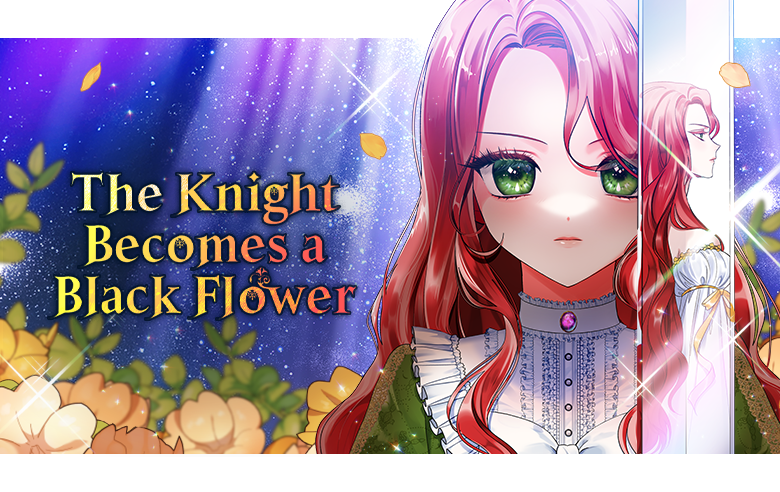
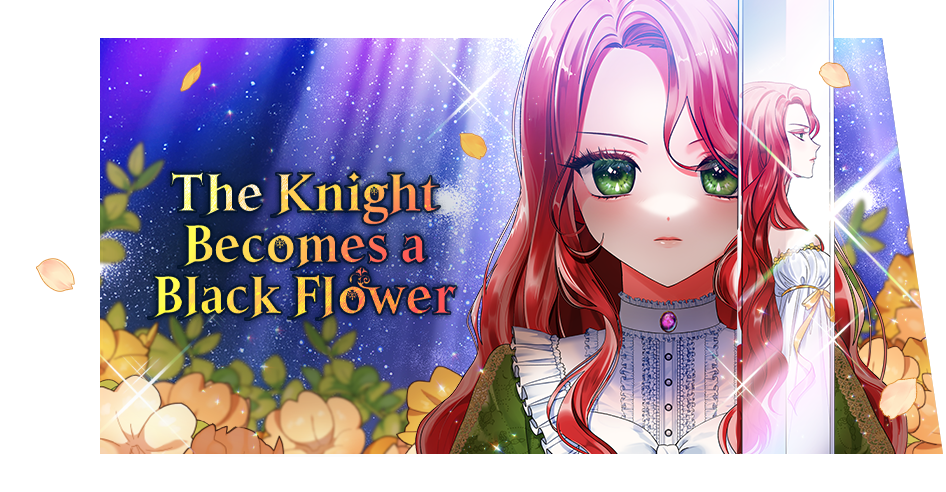
front index

diff --git a/index.html b/index.html
@@ -4,7 +4,9 @@
     <meta charset="UTF-8">
     <meta name="viewport" content="width=device-width, initial-scale=1.0">
     <title>Document</title>
-    <link rel="stylesheet" href="style.css">
+    <link rel="stylesheet" href="nav.css">
+    <link rel="stylesheet" href="slider.css">
+    <link rel="stylesheet" href="carousel.css">
     <link href="https://cdn.jsdelivr.net/npm/bootstrap@5.3.3/dist/css/bootstrap.min.css" rel="stylesheet" integrity="sha384-QWTKZyjpPEjISv5WaRU9OFeRpok6YctnYmDr5pNlyT2bRjXh0JMhjY6hW+ALEwIH" crossorigin="anonymous">
 </head>
 <body>
@@ -213,14 +215,14 @@
         <!-- End Nav -->
 
         <!-- Content -->
-        <div class="myapp-content container-fluid p-0 m-0">
+        <div class="myapp-content container-fluid m-0">
             <div class="row">
                 <div class="myapp-addvertise col-xl-2">
                     <!-- Quảng cáo -->
                 </div>
                 <div class="myapp-content-body col-12 col-xl-8">
                     <!-- Slider -->
-                    <div class="slider-container">
+                    <div class="slider-container rounded-bottom-5">
                         <div class="slides">
                             <div class="slide">
                                 <div class="slide-bg"></div>
@@ -305,6 +307,132 @@
 
                     </script>
                     <!-- End Slider -->
+                    
+                    <!-- Carousel 6 truyện một lúc -->
+                    <div class="custom-carousel-container container-fluid m-0 p-0 mt-4">
+                        <div class="custom-carousel">
+                            <button class="custom-carousel-prev">❮</button>
+                            <div class="custom-carousel-wrapper">
+                                <div class="custom-carousel-track">
+                                    <div class="custom-carousel-card rounded-3">Card 1</div>
+                                    <div class="custom-carousel-card rounded-3">Card 2</div>
+                                    <div class="custom-carousel-card rounded-3">Card 3</div>
+                                    <div class="custom-carousel-card rounded-3">Card 4</div>
+                                    <div class="custom-carousel-card rounded-3">Card 5</div>
+                                    <div class="custom-carousel-card rounded-3">Card 6</div>
+                                    <div class="custom-carousel-card rounded-3">Card 7</div>
+                                    <div class="custom-carousel-card rounded-3">Card 8</div>
+                                    <div class="custom-carousel-card rounded-3">Card 9</div>
+                                    <div class="custom-carousel-card rounded-3">Card 10</div>
+                                    <div class="custom-carousel-card rounded-3">Card 11</div>
+                                    <div class="custom-carousel-card rounded-3">Card 12</div>
+                                    <div class="custom-carousel-card rounded-3">Card 13</div>
+                                </div>
+                            </div>
+                            <button class="custom-carousel-next">❯</button>
+                        </div>
+                        <script>
+                            const customTrack = document.querySelector(".custom-carousel-track");
+                            const customPrev = document.querySelector(".custom-carousel-prev");
+                            const customNext = document.querySelector(".custom-carousel-next");
+                            const customWrapper = document.querySelector(".custom-carousel-wrapper");
+                            let customCards = [...document.querySelectorAll(".custom-carousel-card")];
+                    
+                            let customIndex = 0;
+                            let isDragging = false;
+                            let startX = 0, currentX = 0, moveX = 0, lastTransform = 0;
+                    
+                            // Sao chép các phần tử đầu vào cuối để tạo hiệu ứng vòng lặp
+                            customCards.forEach(card => {
+                                const clone = card.cloneNode(true);
+                                customTrack.appendChild(clone);
+                            });
+                            customCards = [...document.querySelectorAll(".custom-carousel-card")];
+                    
+                            function getCustomCardWidth() {
+                                return customCards[0].offsetWidth + 24; // 190px + 24px (gap)
+                            }
+                    
+                            function updateCustomCarousel() {
+                                const cardWidth = getCustomCardWidth();
+                                customTrack.style.transition = "transform 0.5s ease-in-out";
+                                customTrack.style.transform = `translateX(-${customIndex * cardWidth}px)`;
+                            }
+                    
+                            function checkCustomLoop() {
+                                const cardWidth = getCustomCardWidth();
+                                const totalCards = customCards.length / 2; // Vì đã sao chép phần tử
+                                if (customIndex >= totalCards) {
+                                    customTrack.style.transition = "none";
+                                    customIndex = 0;
+                                    customTrack.style.transform = `translateX(-${customIndex * cardWidth}px)`;
+                                } else if (customIndex < 0) {
+                                    customTrack.style.transition = "none";
+                                    customIndex = totalCards - 1;
+                                    customTrack.style.transform = `translateX(-${customIndex * cardWidth}px)`;
+                                }
+                            }
+                    
+                            function startCustomDragging(e) {
+                                isDragging = true;
+                                startX = e.pageX || e.touches[0].pageX;
+                                lastTransform = parseFloat(getComputedStyle(customTrack).transform.split(",")[4]) || 0;
+                                customTrack.style.transition = "none";
+                            }
+                    
+                            function customDragging(e) {
+                                if (!isDragging) return;
+                                currentX = e.pageX || e.touches[0].pageX;
+                                moveX = currentX - startX;
+                                customTrack.style.transform = `translateX(${lastTransform + moveX}px)`;
+                            }
+                    
+                            function stopCustomDragging() {
+                                if (!isDragging) return;
+                                isDragging = false;
+                                customTrack.style.transition = "transform 0.5s ease-in-out";
+                    
+                                const cardWidth = getCustomCardWidth();
+                                let newIndex = Math.round(Math.abs(lastTransform + moveX) / cardWidth);
+                                customIndex = newIndex;
+                    
+                                updateCustomCarousel();
+                                checkCustomLoop();
+                            }
+                    
+                            function nextCustomSlide() {
+                                customIndex++;
+                                updateCustomCarousel();
+                                setTimeout(checkCustomLoop, 500);
+                            }
+                    
+                            function prevCustomSlide() {
+                                customIndex--;
+                                updateCustomCarousel();
+                                setTimeout(checkCustomLoop, 500);
+                            }
+                    
+                            // Gán sự kiện
+                            customNext.addEventListener("click", nextCustomSlide);
+                            customPrev.addEventListener("click", prevCustomSlide);
+                    
+                            customWrapper.addEventListener("mousedown", startCustomDragging);
+                            customWrapper.addEventListener("mousemove", customDragging);
+                            customWrapper.addEventListener("mouseup", stopCustomDragging);
+                            customWrapper.addEventListener("mouseleave", stopCustomDragging);
+                            customWrapper.addEventListener("touchstart", startCustomDragging);
+                            customWrapper.addEventListener("touchmove", customDragging);
+                            customWrapper.addEventListener("touchend", stopCustomDragging);
+                    
+                            // Cập nhật khi resize
+                            window.addEventListener("resize", updateCustomCarousel);
+                    
+                            // Khởi động
+                            updateCustomCarousel();
+                        </script>
+                    </div>
+                    
+                    <!-- End Carousel -->
                 </div>
                 <div class="myapp-addvertise col-xl-2">
                     <!-- Quảng cáo -->
@@ -312,7 +440,9 @@
             </div>
             
         </div>
-        <footer class="container-fluid" style="border: 1px solid red;">Footer</footer>
+        <footer class="container-fluid" style="border: 1px solid red;">
+
+        </footer>
     </div>
     <script src="https://cdn.jsdelivr.net/npm/bootstrap@5.3.3/dist/js/bootstrap.bundle.min.js" integrity="sha384-YvpcrYf0tY3lHB60NNkmXc5s9fDVZLESaAA55NDzOxhy9GkcIdslK1eN7N6jIeHz" crossorigin="anonymous"></script>
 </body>

diff --git a/slider.css b/slider.css
@@ -1,45 +1,3 @@
-.dropdown:hover .dropdown-menu {
-    display: block;
-}
-
-.dropdown-toggle {
-    cursor: pointer !important;
-}
-
-.myapp-nav-icon{
-    max-width: 20px;
-    max-height: 20px;
-}
-
-.myapp-search .input-group input,
-.myapp-search .input-group button {
-    background-color: #f6f6f6;
-}
-
-input.form-control {
-    text-indent: 10px; /* Đẩy chữ vào phải 10px */
-}
-
-.myapp-user .dropdown{
-    background-color: #c50047;
-    padding: 0.5rem;
-    border-radius: 0.5rem;
-    color: white;
-}
-
-.myapp-user span{
-    font-weight: 500;
-}
-
-.myapp-user .dropdown-toggle::after {
-    display: none !important;
-}
-
-.myapp-logo img{
-    max-width: 100%;
-    max-height: 75px;
-}
-
 /* Slider */
 .slider-container {
     position: relative;
@@ -65,6 +23,13 @@ input.form-control {
 }
 
 /* Ảnh chính */
+.slide a {
+    display: flex;
+    align-items: center;
+    justify-content: center;
+    width: 100%;
+    height: 100%;
+}
 
 .slide a img {
     position: relative;

diff --git a/carousel.css b/carousel.css
@@ -1,0 +1,46 @@
+.custom-carousel {
+    display: flex;
+    align-items: center;
+    position: relative;
+    width: 100%;
+    margin: auto;
+}
+
+.custom-carousel-wrapper {
+    overflow: hidden;
+    width: 100%;
+    flex: 1;
+}
+
+.custom-carousel-track {
+    display: flex;
+    gap: 1.5rem;
+    transition: transform 0.5s ease-in-out;
+}
+
+.custom-carousel-card {
+    width: 190px;
+    height: 200px;
+    background: lightgray;
+    display: flex;
+    justify-content: center;
+    align-items: center;
+    flex-shrink: 0;
+}
+
+.custom-carousel-prev, .custom-carousel-next {
+    background: rgba(199, 198, 198, 0.5);
+    color: white;
+    border: none;
+    cursor: pointer;
+    padding: 10px;
+    font-size: 20px;
+    position: absolute;
+    top: 50%;
+    transform: translateY(-50%);
+    z-index: 10;
+    border-radius: 20%;
+}
+
+.custom-carousel-prev { left: 5px; }
+.custom-carousel-next { right: 5px; }

diff --git a/nav.css b/nav.css
@@ -1,0 +1,42 @@
+/* nav */
+.dropdown:hover .dropdown-menu {
+    display: block;
+}
+
+.dropdown-toggle {
+    cursor: pointer !important;
+}
+
+.myapp-nav-icon{
+    max-width: 20px;
+    max-height: 20px;
+}
+
+.myapp-search .input-group input,
+.myapp-search .input-group button {
+    background-color: #f6f6f6;
+}
+
+input.form-control {
+    text-indent: 10px; /* Đẩy chữ vào phải 10px */
+}
+
+.myapp-user .dropdown{
+    background-color: #c50047;
+    padding: 0.5rem;
+    border-radius: 0.5rem;
+    color: white;
+}
+
+.myapp-user span{
+    font-weight: 500;
+}
+
+.myapp-user .dropdown-toggle::after {
+    display: none !important;
+}
+
+.myapp-logo img{
+    max-width: 100%;
+    max-height: 75px;
+}
